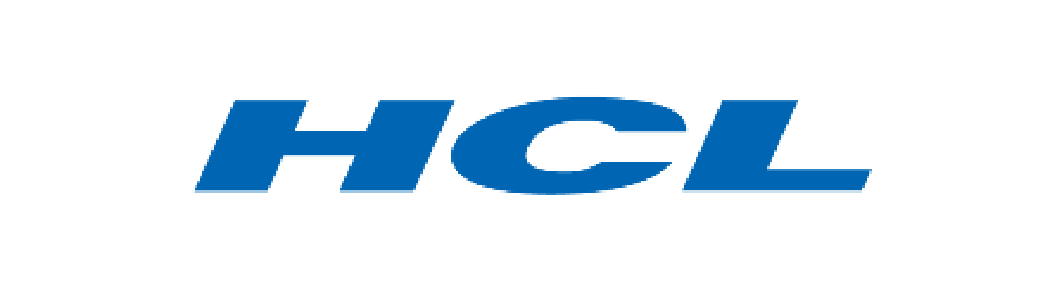
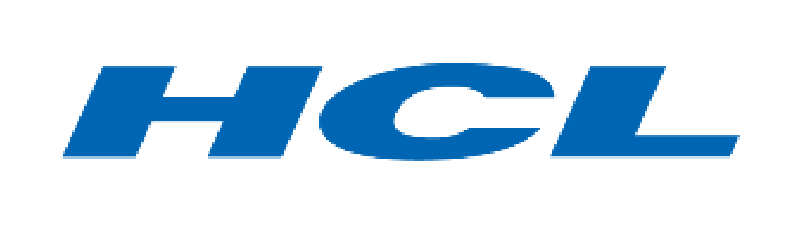
new pages added

Changed region(s): [[0.0622, 0.2739, 0.9328, 0.7], [0.4664, 0.487, 0.4975, 0.5783]]

diff --git a/src/components/Judges.js b/src/components/Judges.js
@@ -1,0 +1,86 @@
+import React from 'react';
+import SarahLandry from '../images/SarahLandry.png'
+import EmilyClarke from '../images/EmilyClarke.png'
+import DavidYates from '../images/DavidYates.png'
+import BarryAlistair from '../images/BarryAlistair.png'
+import Earth from '../images/Earth.png'
+const Judges = ({ ...props }) => {
+
+    const judges = [
+        {
+            name: 'Sarah Landry',
+            role: 'Managing Director',
+            company: 'TH.0 UK',
+            image: SarahLandry
+        },
+        {
+            name: 'Emily Clarke',
+            role: 'Founder',
+            company: 'Delegate Me',
+            image: EmilyClarke
+
+        },
+        {
+            name: 'David Yates',
+            role: 'Interim CEO',
+            company: 'Skyline',
+            image: DavidYates
+        },
+        {
+            name: 'Barry Alistair',
+            role: 'Co-Funder',
+            company: 'Tcube',
+            image: BarryAlistair
+        },
+        {
+            name: 'Grant Whelan',
+            role: 'Role',
+            company: 'Company',
+            image: Earth
+        },
+        {
+            name: 'Judge',
+            role: 'Role',
+            company: 'Company',
+            image: Earth
+        },
+        {
+            name: 'Judge',
+            role: 'Role',
+            company: 'Company',
+            image: Earth
+        },
+        {
+            name: 'Judge',
+            role: 'Role',
+            company: 'Company',
+            image: Earth
+        },
+        {
+            name: 'Judge',
+            role: 'Role',
+            company: 'Company',
+            image: Earth
+        },
+        {
+            name: 'Judge',
+            role: 'Role',
+            company: 'Company',
+            image: Earth
+        },
+    ]
+    return (
+        <div className='container'>
+            {judges.map((judge) => {
+                return <div style={{textAlign:'center', marginTop:30}}>
+                    <div style={{fontWeight:'bold', fontSize:20}}>{judge.name}</div>
+                    <img src={judge.image} style={{width:'50%'}} alt="..."></img>
+                    <div>{judge.role}</div>
+                    <div>{judge.company}</div>
+                </div>
+            })}
+        </div>
+    )
+}
+
+export default Judges

diff --git a/src/components/Sponsors.js b/src/components/Sponsors.js
@@ -1,0 +1,31 @@
+import React from 'react';
+
+const Sponsors = ({ ...props }) => {
+    return (
+        <div>
+            <div className='about-button' style={{ width: "18%", marginLeft:'auto', marginRight:'auto', marginTop:"3%"}}>SPONSORS</div>
+            <div id="carouselExampleControls" className="carousel slide" data-ride="carousel">
+                <div className="carousel-inner">
+                    <div className="row carousel-item active">
+                        <div className="row carousel-images">
+                            <img src={require("../images/Image 2@2x.png")} className="hcl d-block" style={{width:"12%"}} alt="..."></img>
+                            <img src={require("../images/Image 3@2x.png")} className="avon d-block" style={{width:"15%", height:"10%"}} alt="..."></img>
+                            <img src={require("../images/Image 4@2x.png")} className="challenge d-block" style={{width:"15%", height:"10%"}} alt="..."></img>
+                            <img src={require("../images/Image 5@2x.png")} className="pro d-block" style={{width:"10%", height:"15%"}} alt="..."></img>
+                        </div>
+                    </div>
+                </div>
+                <a className="carousel-control-prev" href="#carouselExampleControls" role="button" data-slide="prev">
+                    <span className="carousel-control-prev-icon" aria-hidden="true"></span>
+                    <span className="sr-only">Previous</span>
+                </a>
+                <a className="carousel-control-next" href="#carouselExampleControls" role="button" data-slide="next">
+                    <span className="carousel-control-next-icon" aria-hidden="true"></span>
+                    <span className="sr-only">Next</span>
+                </a>
+                </div>
+        </div>
+        )
+}
+
+export default Sponsors

diff --git a/src/App.css b/src/App.css
@@ -4,6 +4,8 @@
   font-family: Lovelo;
   src: url(fonts/Lovelo-Black.otf);
 }
+
+/* Lovelo-LineLight */
 @media (max-width: 575.98px) { 
 	
 }
@@ -75,14 +77,9 @@ div.down {
 /* about page */
 
 .blue-design{
-  top: 1667px;
-  left: -768.55078125px;
-  width: 4260px;
-  height: 1345px;
-  transform: matrix(1, 0.03, -0.03, 1, 0, 0);
-  background: transparent linear-gradient(180deg, #FFFFFF 0%, #00B8B3 100%) 0% 0% no-repeat padding-box;
-  border: 1px solid #FFFFFF00;
-  opacity: 0.19;
+  background-image: url("./images/blue-background.png");
+  background-size: contain;
+
 }
 
 .about-img{
@@ -111,5 +108,71 @@ div.down {
   font-size:35px ;
   border: 2px solid #C7BCDC;
   border-radius: 34px;
-  padding-top:10px
+  padding-top:10px;
+  background-color: transparent;
+}
+
+
+/* sponsors page */
+
+.carousel-control-next-icon:after
+{
+  content: '>';
+  font-size: 55px;
+  color: black;
+}
+
+.carousel-control-prev-icon:after {
+  content: '<';
+  font-size: 55px;
+  color: black;
+}
+
+div.row.carousel-images {
+  justify-content: center;
+}
+
+img.avon {
+  padding-top: 3%;
+  padding-left: 1%;
+}
+
+img.challenge {
+  padding-top: 2%;
+  padding-left: 2%;
+}
+
+img.pro {
+  padding-top: 3%;
+  padding-left: 2%;
+}
+img.hcl {
+  padding-top: 2%;
+}
+
+/* Challenges */
+
+img.challenges-image {
+  display: inline-block;
+  text-align: center;
+}
+
+/* prizes */
+
+.prizes-text{
+  width: 85%; 
+  text-align: center;
+  margin-left:auto; 
+  margin-right:auto;
+  margin-top: 2%;
+  font-family: Roboto;
+  font-size: 30px;
+  font-weight: Regular;
+}
+
+/* judges */
+
+.container{
+  display: grid;
+  grid-template-columns: auto auto auto auto auto;
 }

diff --git a/src/components/Challenges.js b/src/components/Challenges.js
@@ -1,0 +1,22 @@
+import React from 'react';
+import { FaFacebookF, FaInstagram, FaTwitter, FaTelegramPlane, FaRedditAlien, FaDribbble } from 'react-icons/fa'
+
+const Challenges = ({ ...props }) => {
+    return (
+        <div style={{borderTopColor:'#707070', borderTopWidth:1, borderTopStyle:'solid', borderBottomColor:'#707070', borderBottomWidth:1, borderBottomStyle:'solid', width:"90%", marginLeft:'auto', marginRight:'auto'}}>
+                <img src={require("../images/challenges@2x.png")} alt="..." style={{ width: "85%", marginLeft: "7%"}} className='challenges-image'></img>
+            
+            <div className="row challenge-icons" style={{marginLeft: "32.5%", marginTop: "-7%", paddingBottom: "5%"}}>  
+                <FaFacebookF size={81} style={{ marginRight: 30 }} />
+                <FaTwitter size={83} style={{ marginRight: 30 }} />
+                <FaInstagram size={85} style={{ marginRight: 30}} />
+                <FaTelegramPlane size={85} style={{ marginRight: 30 }} />
+                <FaRedditAlien size={85} style={{ marginRight: 30 }} />  
+                <FaDribbble size={83} />
+            </div>
+            <img src={require("../images/logo28@2x.png")} alt="..." style={{ width: "50%", marginLeft: "25%"}} className="climathon-logo-image"></img>
+        </div>
+    )
+}
+
+export default Challenges

diff --git a/src/components/Prizes.js b/src/components/Prizes.js
@@ -1,0 +1,24 @@
+import React from 'react';
+
+const Prizes = ({ ...props }) => {
+    return (
+        <div style={{borderTopColor:'#707070', borderTopWidth:1, borderTopStyle:'solid', borderBottomColor:'#707070', borderBottomWidth:1, borderBottomStyle:'solid', width:"90%", marginLeft:'auto', marginRight:'auto'}}>
+            <div className='about-button' style={{ width: "18%", marginLeft:'auto', marginRight:'auto', marginTop:"3%"}}>PRIZES</div>
+            <div className='prizes-text'>
+                Wanting to be an important figure in the support of early-stage innovation,
+                TH.0 is putting in place the opportunity of a lifetime for the winners of Climathon.
+            </div>
+            <div className='prizes-text'>
+                The top three all-category winners will win a cash prize and the support from an incubator
+                to develop their projects: £3,000 for first place, £1,500 for the second and
+                £750 for the third.
+            </div>
+            <div className='prizes-text' style={{marginBottom:"3%"}}>
+                Each category will have its winning team with access to a
+                variety of additional prizes to help support their project. The additional prizes consist of.
+            </div>
+        </div>
+    )
+}
+
+export default Prizes

diff --git a/src/components/AboutPage.js b/src/components/AboutPage.js
@@ -1,6 +1,6 @@
 import React from 'react';
 
-export const AboutPage = ({ ...props }) => {
+const AboutPage = ({ ...props }) => {
     return (
         <div className='container-fluid' id='AboutPage' style={{ marginTop: 50 }}>
             <div className="row" >
@@ -11,7 +11,7 @@ export const AboutPage = ({ ...props }) => {
                 </div>
             </div>
 
-            <div className="row blue-design" style={{ marginTop: 100 }}>
+            <div style={{ marginTop: 100 }} className='blue-design row'>
                 <div className="col-5 offset-1">
                     <div className='about-button'>WHY CLIMATHON?</div>
                     <div className='about-text' style={{ marginTop: 30 }}>Lorem Ipsum comes from sections 1.10.32 and 1.10.33 of "de Finibus Bonorum et Malorum" (The Extremes of Good and Evil) by Cicero, written in 45 BC. This book is a treatise on the theory of ethics, very popular during the Renaissance.</div>

diff --git a/src/App.js b/src/App.js
@@ -5,13 +5,23 @@ import Footer from '@bit/hackathons_websites.reusable_component.components.foote
 import CustomNavBar from '@bit/hackathons_websites.reusable_component.custom-nav-bar';
 import AboutPage from './components/AboutPage'
 import logo from './images/Globechange@2x.png'
+import Sponsors from './components/Sponsors'
+import Challenges from './components/Challenges'
+import Prizes from './components/Prizes'
+import Judges from './components/Judges'
+import Agenda from './components/Agenda'
 function App(props) {
   return (
     <div >
-      <CustomNavBar {...props} colour="#C4CBCD" logo={logo}/>
+      <CustomNavBar {...props} colour="#C4CBCD" logo={logo} />
       <LandingPage />
-      <AboutPage/>
-      <Footer {...props} colour="#C4CBCD"/>
+      <AboutPage />
+      <Sponsors />
+      <Challenges />
+      <Prizes />
+      <Judges />
+      <Agenda />
+      <Footer {...props} colour="#C4CBCD" />
     </div>
   );
 }

diff --git a/src/components/LandingPage.js b/src/components/LandingPage.js
@@ -9,7 +9,7 @@ export const LandingPage = ({ ...props }) => {
             <div className="landing-main-text" style={{ marginTop: -70 }}>23rd - 25th October <br></br> 2020 Virtual Event</div>
             <div className="landing-sub-text" style={{ marginTop: -5 }}>Lorem Ipsum comes from sections 1.10.32 and 1.10.33 of "de Finibus Bonorum et Malorum" (The Extremes of Good and Evil) by Cicero.</div>
             <button className="landing-btn">JOIN NOW</button>
-            <img src={require("../images/climathonIllustration2@2x.png")} style={{ marginTop: -200 }} className="illustration-image" id="AboutPage" alt=""></img>
+            <img src={require("../images/climathonIllustration2@2x.png")} style={{ marginTop: -170 }} className="illustration-image" id="AboutPage" alt=""></img>
 
 
             <div className="down" style={{ marginTop: -55 }}>

diff --git a/src/components/Agenda.js b/src/components/Agenda.js
@@ -1,0 +1,11 @@
+import React from 'react';
+
+const AboutPage = ({ ...props }) => {
+    return (
+        <div style={{ borderTopColor: '#707070', borderTopWidth: 1, borderTopStyle: 'solid', borderBottomColor: '#707070', borderBottomWidth: 1, borderBottomStyle: 'solid', width: "90%", marginLeft: 'auto', marginRight: 'auto' }}>
+            <div className='about-button' style={{ width: "18%", marginLeft:'auto', marginRight:'auto', marginTop:"3%"}}>AGENDA</div>
+        </div>
+    )
+}
+
+export default AboutPage
